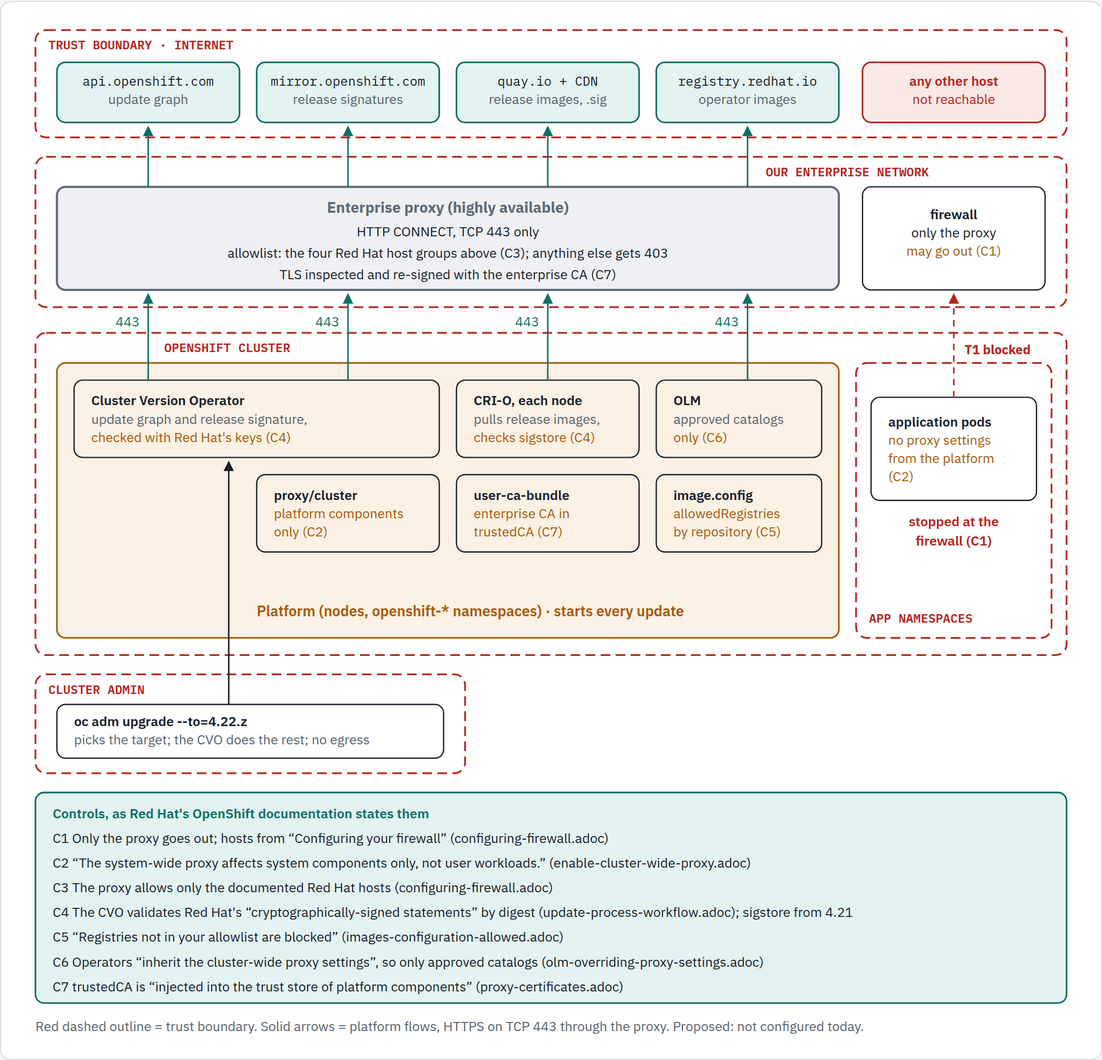
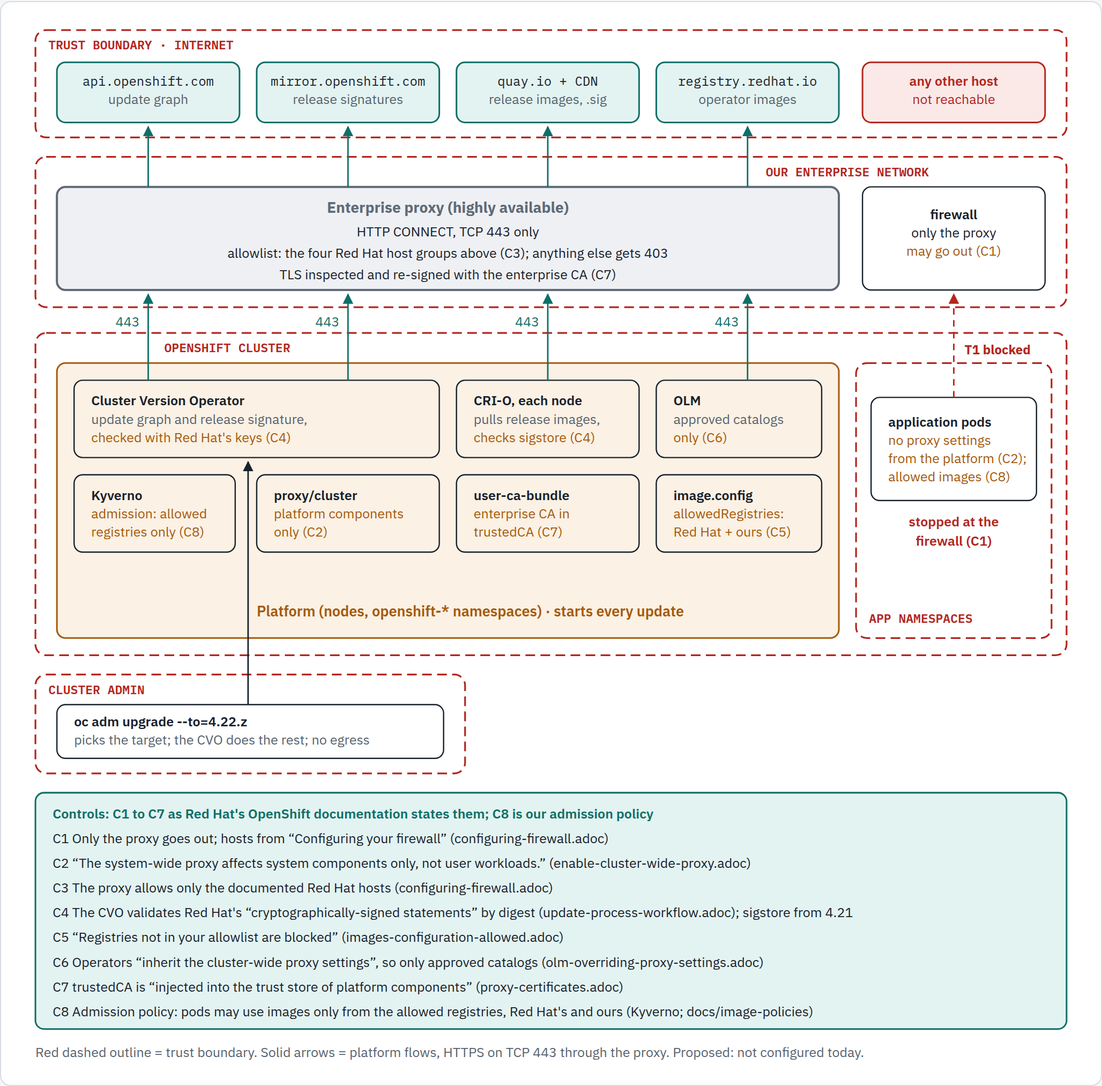
proxy threat model: admission policy for allowed registries; step-by-step figure
- New control C8: an admission policy (Kyverno's standard
  allowed-registries policy, docs/image-policies, or another policy
  engine) admits pods only with images from the allowed registries,
  Red Hat's and our internal ones; allowedRegistries (C5) stays on the
  nodes for every pull. Shown in the platform (Kyverno box), on the
  application pods, and in the controls box, which now says C1 to C7
  come from Red Hat's documentation and C8 is our policy. New T6: a pod
  with an image from any other registry.
- Second figure, proxy-update-steps: the same update as steps 1 to 7,
  each with its platform caller, its Red Hat host on TCP 443 through
  the enterprise proxy, and its controls; step 7 shows application
  pods admitted only with allowed images and blocked from any other
  host or registry.

Claude-Session: https://claude.ai/code/session_019qihKhjEgccdwcruX2zHff

Changed region(s): [[0.0311, 0.0308, 0.965, 0.5243], [0.0311, 0.5551, 0.965, 0.9869]]

diff --git a/docs/enterprise-proxy/diagrams/threat-model/source.html b/docs/enterprise-proxy/diagrams/threat-model/source.html
@@ -69,7 +69,7 @@ a { color: var(--remote); }
     <p class="muted">The platform starts every flow; every flow is TCP 443 through the proxy to a Red Hat host.</p>
     <figure>
       <div class="fig-scroll">
-<svg viewBox="0 0 1000 960" role="img" aria-label="Threat model of updating a cluster through our enterprise proxy, platform side. Inside the OpenShift cluster, the platform (the nodes and the openshift namespaces) starts every update. The Cluster Version Operator fetches the update graph from api.openshift.com and the release signature from mirror.openshift.com, and checks it with Red Hat's keys. CRI-O on each node pulls the release images from quay.io and checks their sigstore signatures. OLM pulls operator images from registry.redhat.io, from approved catalogs only. Every one of these flows is HTTPS on TCP 443 through the enterprise proxy, which allows only these Red Hat hosts, answers anything else with 403, and inspects TLS with the enterprise CA that the platform trusts through the proxy's trustedCA bundle. The firewall lets only the proxy out. Application pods get no proxy settings from the platform and have no route out, so they are stopped at the firewall. The cluster admin only picks the target with oc adm upgrade. Each control is taken from Red Hat's OpenShift documentation.">
+<svg viewBox="0 0 1000 984" role="img" aria-label="Threat model of updating a cluster through our enterprise proxy, platform side. Inside the OpenShift cluster, the platform (the nodes and the openshift namespaces) starts every update. The Cluster Version Operator fetches the update graph from api.openshift.com and the release signature from mirror.openshift.com, and checks it with Red Hat's keys. CRI-O on each node pulls the release images from quay.io and checks their sigstore signatures. OLM pulls operator images from registry.redhat.io, from approved catalogs only. Every one of these flows is HTTPS on TCP 443 through the enterprise proxy, which allows only these Red Hat hosts, answers anything else with 403, and inspects TLS with the enterprise CA that the platform trusts through the proxy's trustedCA bundle. The firewall lets only the proxy out. Application pods get no proxy settings from the platform and have no route out, so they are stopped at the firewall. An admission policy (Kyverno) lets pods use images only from the allowed registries, Red Hat's and our internal ones, on top of the nodes' allowedRegistries. The cluster admin only picks the target with oc adm upgrade. Each control is taken from Red Hat's OpenShift documentation, except the admission policy, which is ours.">
 <defs><marker id="pt1" viewBox="0 0 10 10" refX="9" refY="5" markerWidth="7" markerHeight="7" orient="auto-start-reverse"><path d="M0,0 L10,5 L0,10 z" fill="context-stroke"/></marker></defs>
 <g font-family="IBM Plex Sans, sans-serif" font-size="12.5" fill="currentColor">
 <rect x="20" y="14" width="960" height="100" rx="10" fill="none" stroke="var(--gap)" stroke-width="1.6" stroke-dasharray="9 5"/>
@@ -131,8 +131,12 @@ a { color: var(--remote); }
 <text x="428" y="485.5" fill="var(--host)">trustedCA (C7)</text>
 <rect x="598" y="428" width="154" height="72" rx="8" fill="none" stroke="currentColor" stroke-width="1.2"/>
 <text x="614" y="451.5" fill="currentColor" font-weight="600">image.config</text>
-<text x="614" y="468.5" fill="var(--host)">allowedRegistries</text>
-<text x="614" y="485.5" fill="var(--host)">by repository (C5)</text>
+<text x="614" y="468.5" fill="var(--host)">allowedRegistries:</text>
+<text x="614" y="485.5" fill="var(--host)">Red Hat + ours (C5)</text>
+<rect x="56" y="428" width="150" height="72" rx="8" fill="none" stroke="currentColor" stroke-width="1.2"/>
+<text x="72" y="451.5" fill="currentColor" font-weight="600">Kyverno</text>
+<text x="72" y="468.5" fill="var(--host)">admission: allowed</text>
+<text x="72" y="485.5" fill="var(--host)">registries only (C8)</text>
 <text x="226" y="560" fill="var(--host)" font-size="13.5" font-weight="600">Platform (nodes, openshift-* namespaces) · starts every update</text>
 <path d="M125,340 L125,260" fill="none" stroke="var(--remote)" stroke-width="1.4" marker-end="url(#pt1)"/>
 <text x="117" y="290" fill="var(--remote)" text-anchor="end">443</text>
@@ -148,8 +152,8 @@ a { color: var(--remote); }
 <rect x="798" y="356" width="154" height="96" rx="8" fill="none" stroke="currentColor" stroke-width="1.2"/>
 <text x="814" y="383.0" fill="currentColor" font-weight="600">application pods</text>
 <text x="814" y="400.0" fill="var(--host)">no proxy settings</text>
-<text x="814" y="417.0" fill="var(--host)">from the platform</text>
-<text x="814" y="434.0" fill="var(--host)">(C2)</text>
+<text x="814" y="417.0" fill="var(--host)">from the platform (C2);</text>
+<text x="814" y="434.0" fill="var(--host)">allowed images (C8)</text>
 <path d="M875,356 L875,260" fill="none" stroke="var(--gap)" stroke-width="1.4" stroke-dasharray="6 5" marker-end="url(#pt1)"/>
 <text x="885" y="316" fill="var(--gap)" font-size="12" font-weight="700">T1 blocked</text>
 <text x="875" y="476" fill="var(--gap)" font-weight="600" text-anchor="middle">stopped at the</text>
@@ -159,9 +163,9 @@ a { color: var(--remote); }
 <rect x="40" y="642" width="360" height="50" rx="8" fill="none" stroke="currentColor" stroke-width="1.2"/>
 <text x="56" y="662" fill="currentColor" font-weight="600">oc adm upgrade --to=4.22.z</text>
 <text x="56" y="679" fill="var(--muted)">picks the target; the CVO does the rest; no egress</text>
-<path d="M200,642 L200,416" fill="none" stroke="currentColor" stroke-width="1.4" marker-end="url(#pt1)"/>
-<rect x="20" y="724" width="960" height="196" rx="8" fill="var(--remote-wash)" stroke="var(--remote)" stroke-width="1.5"/>
-<text x="36" y="748" fill="var(--remote)" font-weight="600">Controls, as Red Hat's OpenShift documentation states them</text>
+<path d="M218,642 L218,416" fill="none" stroke="currentColor" stroke-width="1.4" marker-end="url(#pt1)"/>
+<rect x="20" y="724" width="960" height="220" rx="8" fill="var(--remote-wash)" stroke="var(--remote)" stroke-width="1.5"/>
+<text x="36" y="748" fill="var(--remote)" font-weight="600">Controls: C1 to C7 as Red Hat's OpenShift documentation states them; C8 is our admission policy</text>
 <text x="36" y="771" fill="currentColor">C1  Only the proxy goes out; hosts from “Configuring your firewall” (configuring-firewall.adoc)</text>
 <text x="36" y="794" fill="currentColor">C2  “The system-wide proxy affects system components only, not user workloads.” (enable-cluster-wide-proxy.adoc)</text>
 <text x="36" y="817" fill="currentColor">C3  The proxy allows only the documented Red Hat hosts (configuring-firewall.adoc)</text>
@@ -169,7 +173,104 @@ a { color: var(--remote); }
 <text x="36" y="863" fill="currentColor">C5  “Registries not in your allowlist are blocked” (images-configuration-allowed.adoc)</text>
 <text x="36" y="886" fill="currentColor">C6  Operators “inherit the cluster-wide proxy settings”, so only approved catalogs (olm-overriding-proxy-settings.adoc)</text>
 <text x="36" y="909" fill="currentColor">C7  trustedCA is “injected into the trust store of platform components” (proxy-certificates.adoc)</text>
-<text x="20" y="946" fill="var(--muted)">Red dashed outline = trust boundary.  Solid arrows = platform flows, HTTPS on TCP 443 through the proxy.  Proposed: not configured today.</text>
+<text x="36" y="932" fill="currentColor">C8  Admission policy: pods may use images only from the allowed registries, Red Hat's and ours (Kyverno; docs/image-policies)</text>
+<text x="20" y="970" fill="var(--muted)">Red dashed outline = trust boundary.  Solid arrows = platform flows, HTTPS on TCP 443 through the proxy.  Proposed: not configured today.</text>
+</g>
+</svg>
+      </div>
+      <figcaption>Proposed: not configured on any cluster yet.</figcaption>
+    </figure>
+  </section>
+
+  <section>
+    <h2>Step by step</h2>
+    <p class="muted">The same update in order: who calls which Red Hat host, and the controls on each step.</p>
+    <figure>
+      <div class="fig-scroll">
+<svg viewBox="0 0 1000 900" role="img" aria-label="The same update step by step. Each step names the platform component that makes the request, the Red Hat host it reaches over TCP 443 through the enterprise proxy, and the controls that apply. Step 1: the Cluster Version Operator asks api.openshift.com for the update graph. Step 2: the cluster admin picks the target with oc adm upgrade; no egress. Step 3: the CVO fetches the release signature from mirror.openshift.com and checks it with Red Hat's keys. Step 4: CRI-O on each node pulls the release images from quay.io and its CDN, only from allowed repositories. Step 5: CRI-O checks each image's sigstore signature. Step 6: OLM installs operators from approved catalogs on registry.redhat.io. Step 7: application pods are admitted only with images from the allowed registries and have no proxy settings and no route out. Every request crosses the enterprise proxy, which allows only Red Hat hosts and re-signs TLS with the enterprise CA the platform trusts.">
+<defs><marker id="pt2" viewBox="0 0 10 10" refX="9" refY="5" markerWidth="7" markerHeight="7" orient="auto-start-reverse"><path d="M0,0 L10,5 L0,10 z" fill="context-stroke"/></marker></defs>
+<g font-family="IBM Plex Sans, sans-serif" font-size="12.5" fill="currentColor">
+<rect x="20" y="14" width="400" height="30" rx="6" fill="var(--host-wash)" stroke="var(--host)"/>
+<text x="220.0" y="34" fill="var(--host)" font-family="IBM Plex Mono, monospace" font-size="13" font-weight="600" text-anchor="middle">PLATFORM · starts the update</text>
+<rect x="440" y="14" width="200" height="30" rx="6" fill="var(--none-wash)" stroke="var(--none)"/>
+<text x="540.0" y="34" fill="var(--none)" font-family="IBM Plex Mono, monospace" font-size="13" font-weight="600" text-anchor="middle">ENTERPRISE PROXY</text>
+<rect x="660" y="14" width="320" height="30" rx="6" fill="var(--remote-wash)" stroke="var(--remote)"/>
+<text x="820.0" y="34" fill="var(--remote)" font-family="IBM Plex Mono, monospace" font-size="13" font-weight="600" text-anchor="middle">RED HAT · TCP 443</text>
+<rect x="440" y="52" width="200" height="694" rx="8" fill="var(--none-wash)" stroke="var(--none)" stroke-width="2"/>
+<text x="540" y="74" fill="var(--none)" font-size="12" font-weight="600" text-anchor="middle">CONNECT :443 only</text>
+<text x="540" y="92" fill="var(--none)" font-size="12" text-anchor="middle">Red Hat hosts only (C3)</text>
+<text x="540" y="110" fill="var(--none)" font-size="12" text-anchor="middle">enterprise CA (C7)</text>
+<rect x="36" y="130" width="384" height="64" rx="8" fill="none" stroke="currentColor" stroke-width="1.2"/>
+<text x="52" y="156" fill="currentColor" font-weight="600">① Check for updates</text>
+<text x="52" y="173" fill="var(--muted)">Cluster Version Operator</text>
+<rect x="660" y="130" width="320" height="64" rx="8" fill="var(--remote-wash)" stroke="var(--remote)" stroke-width="1.5"/>
+<text x="676" y="156" fill="currentColor" font-family="IBM Plex Mono, monospace" font-size="12">api.openshift.com</text>
+<text x="676" y="173" fill="var(--muted)">update graph: versions, risks</text>
+<path d="M420,162 L656,162" fill="none" stroke="var(--remote)" stroke-width="1.4" marker-end="url(#pt2)"/>
+<rect x="495" y="139" width="30" height="20" rx="10" fill="var(--host-wash)" stroke="var(--host)" stroke-width="1.5"/>
+<text x="510" y="153.5" fill="var(--host)" font-family="IBM Plex Mono, monospace" font-size="11.5" font-weight="700" text-anchor="middle">C3</text>
+<rect x="555" y="139" width="30" height="20" rx="10" fill="var(--host-wash)" stroke="var(--host)" stroke-width="1.5"/>
+<text x="570" y="153.5" fill="var(--host)" font-family="IBM Plex Mono, monospace" font-size="11.5" font-weight="700" text-anchor="middle">C7</text>
+<rect x="36" y="210" width="384" height="64" rx="8" fill="none" stroke="currentColor" stroke-width="1.2"/>
+<text x="52" y="236" fill="currentColor" font-weight="600">② Pick the target</text>
+<text x="52" y="253" fill="currentColor" font-family="IBM Plex Mono, monospace" font-size="12">cluster admin: oc adm upgrade --to=4.22.z</text>
+<text x="540" y="246" fill="var(--muted)" text-anchor="middle">no egress</text>
+<rect x="36" y="290" width="384" height="64" rx="8" fill="none" stroke="currentColor" stroke-width="1.2"/>
+<text x="52" y="316" fill="currentColor" font-weight="600">③ Verify the release</text>
+<text x="52" y="333" fill="var(--muted)">CVO, Red Hat's keys, by digest</text>
+<rect x="660" y="290" width="320" height="64" rx="8" fill="var(--remote-wash)" stroke="var(--remote)" stroke-width="1.5"/>
+<text x="676" y="316" fill="currentColor" font-family="IBM Plex Mono, monospace" font-size="12">mirror.openshift.com</text>
+<text x="676" y="333" fill="var(--muted)">release signature</text>
+<path d="M420,322 L656,322" fill="none" stroke="var(--remote)" stroke-width="1.4" marker-end="url(#pt2)"/>
+<rect x="495" y="299" width="30" height="20" rx="10" fill="var(--host-wash)" stroke="var(--host)" stroke-width="1.5"/>
+<text x="510" y="313.5" fill="var(--host)" font-family="IBM Plex Mono, monospace" font-size="11.5" font-weight="700" text-anchor="middle">C4</text>
+<rect x="36" y="370" width="384" height="64" rx="8" fill="none" stroke="currentColor" stroke-width="1.2"/>
+<text x="52" y="396" fill="currentColor" font-weight="600">④ Pull the release images</text>
+<text x="52" y="413" fill="var(--muted)">CRI-O on each node</text>
+<rect x="660" y="370" width="320" height="64" rx="8" fill="var(--remote-wash)" stroke="var(--remote)" stroke-width="1.5"/>
+<text x="676" y="396" fill="currentColor" font-family="IBM Plex Mono, monospace" font-size="12">quay.io + CDN</text>
+<text x="676" y="413" fill="var(--muted)">release images</text>
+<path d="M420,402 L656,402" fill="none" stroke="var(--remote)" stroke-width="1.4" marker-end="url(#pt2)"/>
+<rect x="495" y="379" width="30" height="20" rx="10" fill="var(--host-wash)" stroke="var(--host)" stroke-width="1.5"/>
+<text x="510" y="393.5" fill="var(--host)" font-family="IBM Plex Mono, monospace" font-size="11.5" font-weight="700" text-anchor="middle">C5</text>
+<rect x="555" y="379" width="30" height="20" rx="10" fill="var(--host-wash)" stroke="var(--host)" stroke-width="1.5"/>
+<text x="570" y="393.5" fill="var(--host)" font-family="IBM Plex Mono, monospace" font-size="11.5" font-weight="700" text-anchor="middle">C7</text>
+<rect x="36" y="450" width="384" height="64" rx="8" fill="none" stroke="currentColor" stroke-width="1.2"/>
+<text x="52" y="476" fill="currentColor" font-weight="600">⑤ Check each image</text>
+<text x="52" y="493" fill="var(--muted)">CRI-O: sigstore signature</text>
+<rect x="660" y="450" width="320" height="64" rx="8" fill="var(--remote-wash)" stroke="var(--remote)" stroke-width="1.5"/>
+<text x="676" y="476" fill="currentColor" font-family="IBM Plex Mono, monospace" font-size="12">quay.io · sha256-&lt;digest&gt;.sig</text>
+<text x="676" y="493" fill="var(--muted)">sigstore signature</text>
+<path d="M420,482 L656,482" fill="none" stroke="var(--remote)" stroke-width="1.4" marker-end="url(#pt2)"/>
+<rect x="495" y="459" width="30" height="20" rx="10" fill="var(--host-wash)" stroke="var(--host)" stroke-width="1.5"/>
+<text x="510" y="473.5" fill="var(--host)" font-family="IBM Plex Mono, monospace" font-size="11.5" font-weight="700" text-anchor="middle">C4</text>
+<rect x="36" y="530" width="384" height="64" rx="8" fill="none" stroke="currentColor" stroke-width="1.2"/>
+<text x="52" y="556" fill="currentColor" font-weight="600">⑥ Install approved operators</text>
+<text x="52" y="573" fill="var(--muted)">OLM, approved catalogs only</text>
+<rect x="660" y="530" width="320" height="64" rx="8" fill="var(--remote-wash)" stroke="var(--remote)" stroke-width="1.5"/>
+<text x="676" y="556" fill="currentColor" font-family="IBM Plex Mono, monospace" font-size="12">registry.redhat.io</text>
+<text x="676" y="573" fill="var(--muted)">operator images</text>
+<path d="M420,562 L656,562" fill="none" stroke="var(--remote)" stroke-width="1.4" marker-end="url(#pt2)"/>
+<rect x="495" y="539" width="30" height="20" rx="10" fill="var(--host-wash)" stroke="var(--host)" stroke-width="1.5"/>
+<text x="510" y="553.5" fill="var(--host)" font-family="IBM Plex Mono, monospace" font-size="11.5" font-weight="700" text-anchor="middle">C6</text>
+<rect x="555" y="539" width="30" height="20" rx="10" fill="var(--host-wash)" stroke="var(--host)" stroke-width="1.5"/>
+<text x="570" y="553.5" fill="var(--host)" font-family="IBM Plex Mono, monospace" font-size="11.5" font-weight="700" text-anchor="middle">C5</text>
+<rect x="20" y="604" width="420" height="112" rx="10" fill="none" stroke="var(--gap)" stroke-width="1.6" stroke-dasharray="9 5"/>
+<text x="32" y="622" fill="var(--gap)" font-family="IBM Plex Mono, monospace" font-size="11.5" font-weight="600">APPLICATION NAMESPACES</text>
+<rect x="36" y="632" width="384" height="72" rx="8" fill="none" stroke="currentColor" stroke-width="1.2"/>
+<text x="52" y="656" fill="currentColor" font-weight="600">⑦ Application pods</text>
+<text x="52" y="673" fill="var(--host)">admitted only with allowed images (C8)</text>
+<text x="52" y="690" fill="var(--host)">no proxy settings (C2), no route out (C1)</text>
+<rect x="660" y="632" width="320" height="72" rx="8" fill="var(--gap-wash)" stroke="var(--gap)" stroke-width="1.5"/>
+<text x="676" y="656" fill="var(--gap)" font-weight="600">any other host or registry</text>
+<text x="676" y="673" fill="var(--gap)">not reachable</text>
+<text x="676" y="690" fill="var(--gap)">not admitted (C8)</text>
+<path d="M420,668 L656,668" fill="none" stroke="var(--gap)" stroke-width="1.4" stroke-dasharray="6 5" marker-end="url(#pt2)"/>
+<text x="540" y="660" fill="var(--gap)" font-weight="600" text-anchor="middle">blocked</text>
+<text x="20" y="800" fill="currentColor">Every step is HTTPS on TCP 443 through the enterprise proxy; the firewall lets only the proxy out (C1).</text>
+<text x="20" y="824" fill="var(--muted)">Controls C1 to C8 as in the first figure and in THREAT-MODEL.md: C1 to C7 from Red Hat's documentation, C8 our admission policy.</text>
+<text x="20" y="850" fill="var(--muted)">Allowed registries for C5 and C8: Red Hat's and our internal registries; nothing else.</text>
+<text x="20" y="878" fill="var(--host)" font-weight="600">Proposed design: none of this is configured today.</text>
 </g>
 </svg>
       </div>

diff --git a/docs/enterprise-proxy/THREAT-MODEL.md b/docs/enterprise-proxy/THREAT-MODEL.md
@@ -3,7 +3,7 @@
 The Step 2 design ([`README.md`](README.md)) as a threat model, platform side. It covers the update
 described in [`../openshift-update-egress.html`](../openshift-update-egress.html) (*Option 1 in detail*), drawn
 as trust boundaries and data flows. Every control is taken from Red Hat's OpenShift documentation.
-It shows three things:
+It shows four things:
 
 1. **The platform starts every update.** The Cluster Version Operator, CRI-O on the nodes and OLM
    make the requests; the cluster admin only picks the target.
@@ -11,16 +11,30 @@ It shows three things:
    allows only those hosts, and the firewall lets only the proxy out.
 3. **Application pods cannot use the cluster proxy to reach the internet.** The platform gives them no
    proxy settings, and the firewall stops them.
+4. **Only allowed registries.** Pods may use images only from the allowed registries, Red Hat's and
+   our internal ones: the nodes enforce `allowedRegistries` on every pull, and an admission policy
+   (Kyverno, or another policy engine) refuses any other registry before a pod is created.
 
 <picture>
   <source media="(prefers-color-scheme: dark)" srcset="diagrams/threat-model/proxy-update-threat-model.dark.png">
   <source srcset="diagrams/threat-model/proxy-update-threat-model.light.png">
-  <img alt="Threat model of updating a cluster through our enterprise proxy, platform side. Inside the OpenShift cluster, the platform (the nodes and the openshift namespaces) starts every update. The Cluster Version Operator fetches the update graph from api.openshift.com and the release signature from mirror.openshift.com, and checks it with Red Hat's keys. CRI-O on each node pulls the release images from quay.io and checks their sigstore signatures. OLM pulls operator images from registry.redhat.io, from approved catalogs only. Every one of these flows is HTTPS on TCP 443 through the enterprise proxy, which allows only these Red Hat hosts, answers anything else with 403, and inspects TLS with the enterprise CA that the platform trusts through the proxy's trustedCA bundle. The firewall lets only the proxy out. Application pods get no proxy settings from the platform and have no route out, so they are stopped at the firewall. The cluster admin only picks the target with oc adm upgrade. Each control is taken from Red Hat's OpenShift documentation." src="diagrams/threat-model/proxy-update-threat-model.light.png">
+  <img alt="Threat model of updating a cluster through our enterprise proxy, platform side. Inside the OpenShift cluster, the platform (the nodes and the openshift namespaces) starts every update. The Cluster Version Operator fetches the update graph from api.openshift.com and the release signature from mirror.openshift.com, and checks it with Red Hat's keys. CRI-O on each node pulls the release images from quay.io and checks their sigstore signatures. OLM pulls operator images from registry.redhat.io, from approved catalogs only. Every one of these flows is HTTPS on TCP 443 through the enterprise proxy, which allows only these Red Hat hosts, answers anything else with 403, and inspects TLS with the enterprise CA that the platform trusts through the proxy's trustedCA bundle. The firewall lets only the proxy out. Application pods get no proxy settings from the platform and have no route out, so they are stopped at the firewall. An admission policy (Kyverno) lets pods use images only from the allowed registries, Red Hat's and our internal ones, on top of the nodes' allowedRegistries. The cluster admin only picks the target with oc adm upgrade. Each control is taken from Red Hat's OpenShift documentation, except the admission policy, which is ours." src="diagrams/threat-model/proxy-update-threat-model.light.png">
 </picture>
 
 *Trust boundaries (red dashed): the internet, our enterprise network with the proxy and the firewall,
 and the OpenShift cluster, where the platform starts every update and application namespaces have no
-way out. C1–C7 are the controls.*
+way out. C1–C8 are the controls.*
+
+The same update, step by step: who calls which Red Hat host, and the controls on each step.
+
+<picture>
+  <source media="(prefers-color-scheme: dark)" srcset="diagrams/threat-model/proxy-update-steps.dark.png">
+  <source srcset="diagrams/threat-model/proxy-update-steps.light.png">
+  <img alt="The same update step by step. Each step names the platform component that makes the request, the Red Hat host it reaches over TCP 443 through the enterprise proxy, and the controls that apply. Step 1: the Cluster Version Operator asks api.openshift.com for the update graph. Step 2: the cluster admin picks the target with oc adm upgrade; no egress. Step 3: the CVO fetches the release signature from mirror.openshift.com and checks it with Red Hat's keys. Step 4: CRI-O on each node pulls the release images from quay.io and its CDN, only from allowed repositories. Step 5: CRI-O checks each image's sigstore signature. Step 6: OLM installs operators from approved catalogs on registry.redhat.io. Step 7: application pods are admitted only with images from the allowed registries and have no proxy settings and no route out. Every request crosses the enterprise proxy, which allows only Red Hat hosts and re-signs TLS with the enterprise CA the platform trusts." src="diagrams/threat-model/proxy-update-steps.light.png">
+</picture>
+
+*Steps ① to ⑥ are the platform's; ⑦ shows that application pods are admitted only with allowed images
+and have no way out.*
 
 ## Who calls which Red Hat host
 
@@ -43,6 +57,7 @@ way out. C1–C7 are the controls.*
 | C5 | Nodes pull only from allowed repositories | "Registries not in your allowlist are blocked" ([`images-configuration-allowed.adoc`](https://github.com/openshift/openshift-docs/blob/enterprise-4.18/modules/images-configuration-allowed.adoc)) | 3 | Test 9 |
 | C6 | Only operators from catalogs we approve, since operators "inherit the cluster-wide proxy settings" | [`olm-overriding-proxy-settings.adoc`](https://github.com/openshift/openshift-docs/blob/enterprise-4.18/modules/olm-overriding-proxy-settings.adoc) | 7 | Catalog policy suites ([`../catalog-policies/`](../catalog-policies/)) |
 | C7 | The enterprise CA the proxy re-signs with is in `user-ca-bundle` (`trustedCA`) | The bundle "is merged with the RHCOS trust bundle and injected into the trust store of platform components that make egress HTTPS calls" ([`proxy-certificates.adoc`](https://github.com/openshift/openshift-docs/blob/enterprise-4.18/security/certificate_types_descriptions/proxy-certificates.adoc)); a re-encrypting proxy excludes `sso.redhat.com` ([`cluster-wide-proxy-preqs.adoc`](https://github.com/openshift/openshift-docs/blob/enterprise-4.18/modules/cluster-wide-proxy-preqs.adoc)) | 0, 4a | Tests 1 to 3 |
+| C8 | Pods may use images only from the allowed registries, Red Hat's and our internal ones; anything else is refused at admission | Our admission policy: Kyverno's standard allowed-registries policy with the list in a ConfigMap ([`../image-policies/`](../image-policies/)); `allowedRegistries` (C5) stays on the nodes for every pull | 3, then the policy rollout in `image-policies/` | Test 9, and `oc run` with an image from another registry is refused at admission |
 
 Tests are the runbook's *Verify* table.
 
@@ -55,6 +70,7 @@ Tests are the runbook's *Verify* table.
 | T3 | A release or image that Red Hat did not sign is installed | C4 |
 | T4 | A node pulls an image from a repository we did not allow | C5 |
 | T5 | An operator we did not approve is installed | C6 |
+| T6 | A pod is created with an image from a registry that is not Red Hat's or ours | C8, then C5 on the pull |
 
 ## Diagram source
 
@@ -64,5 +80,5 @@ Diagram sources):
 
 ```bash
 .venv/bin/diagram-render docs/enterprise-proxy/diagrams/threat-model/source.html \
-  docs/enterprise-proxy/diagrams/threat-model proxy-update-threat-model
+  docs/enterprise-proxy/diagrams/threat-model proxy-update-threat-model,proxy-update-steps
 ```
